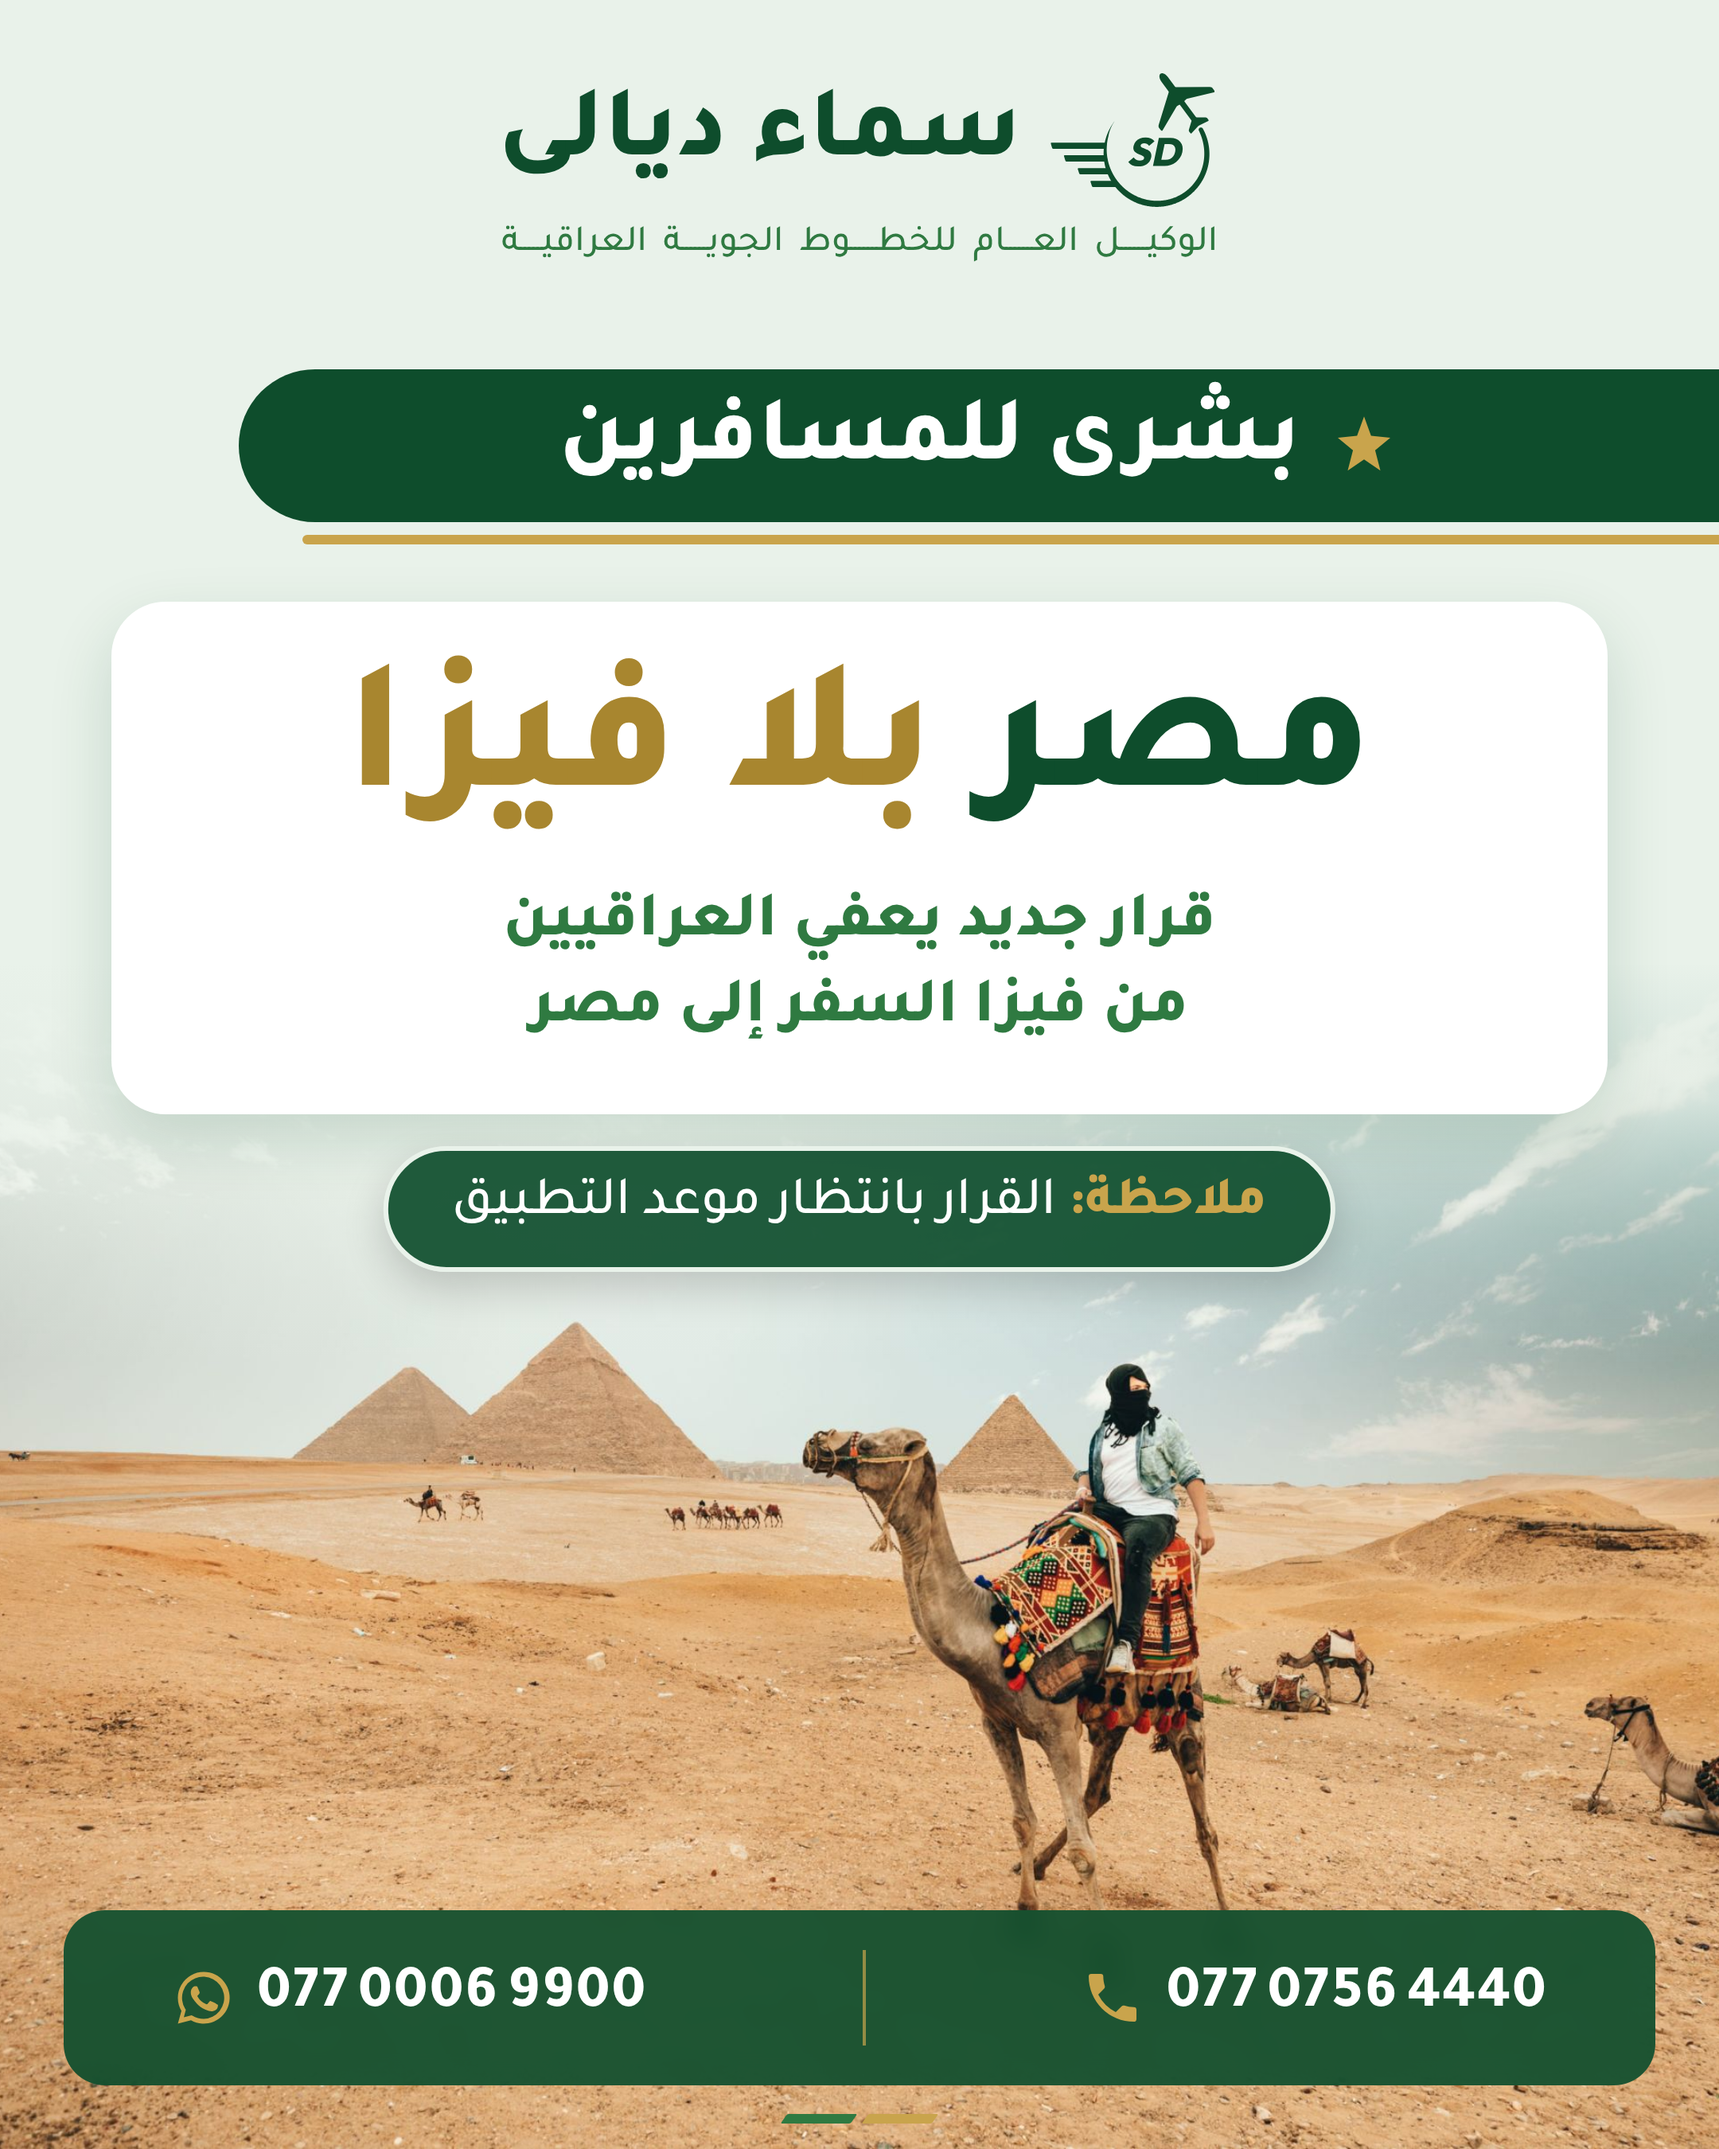
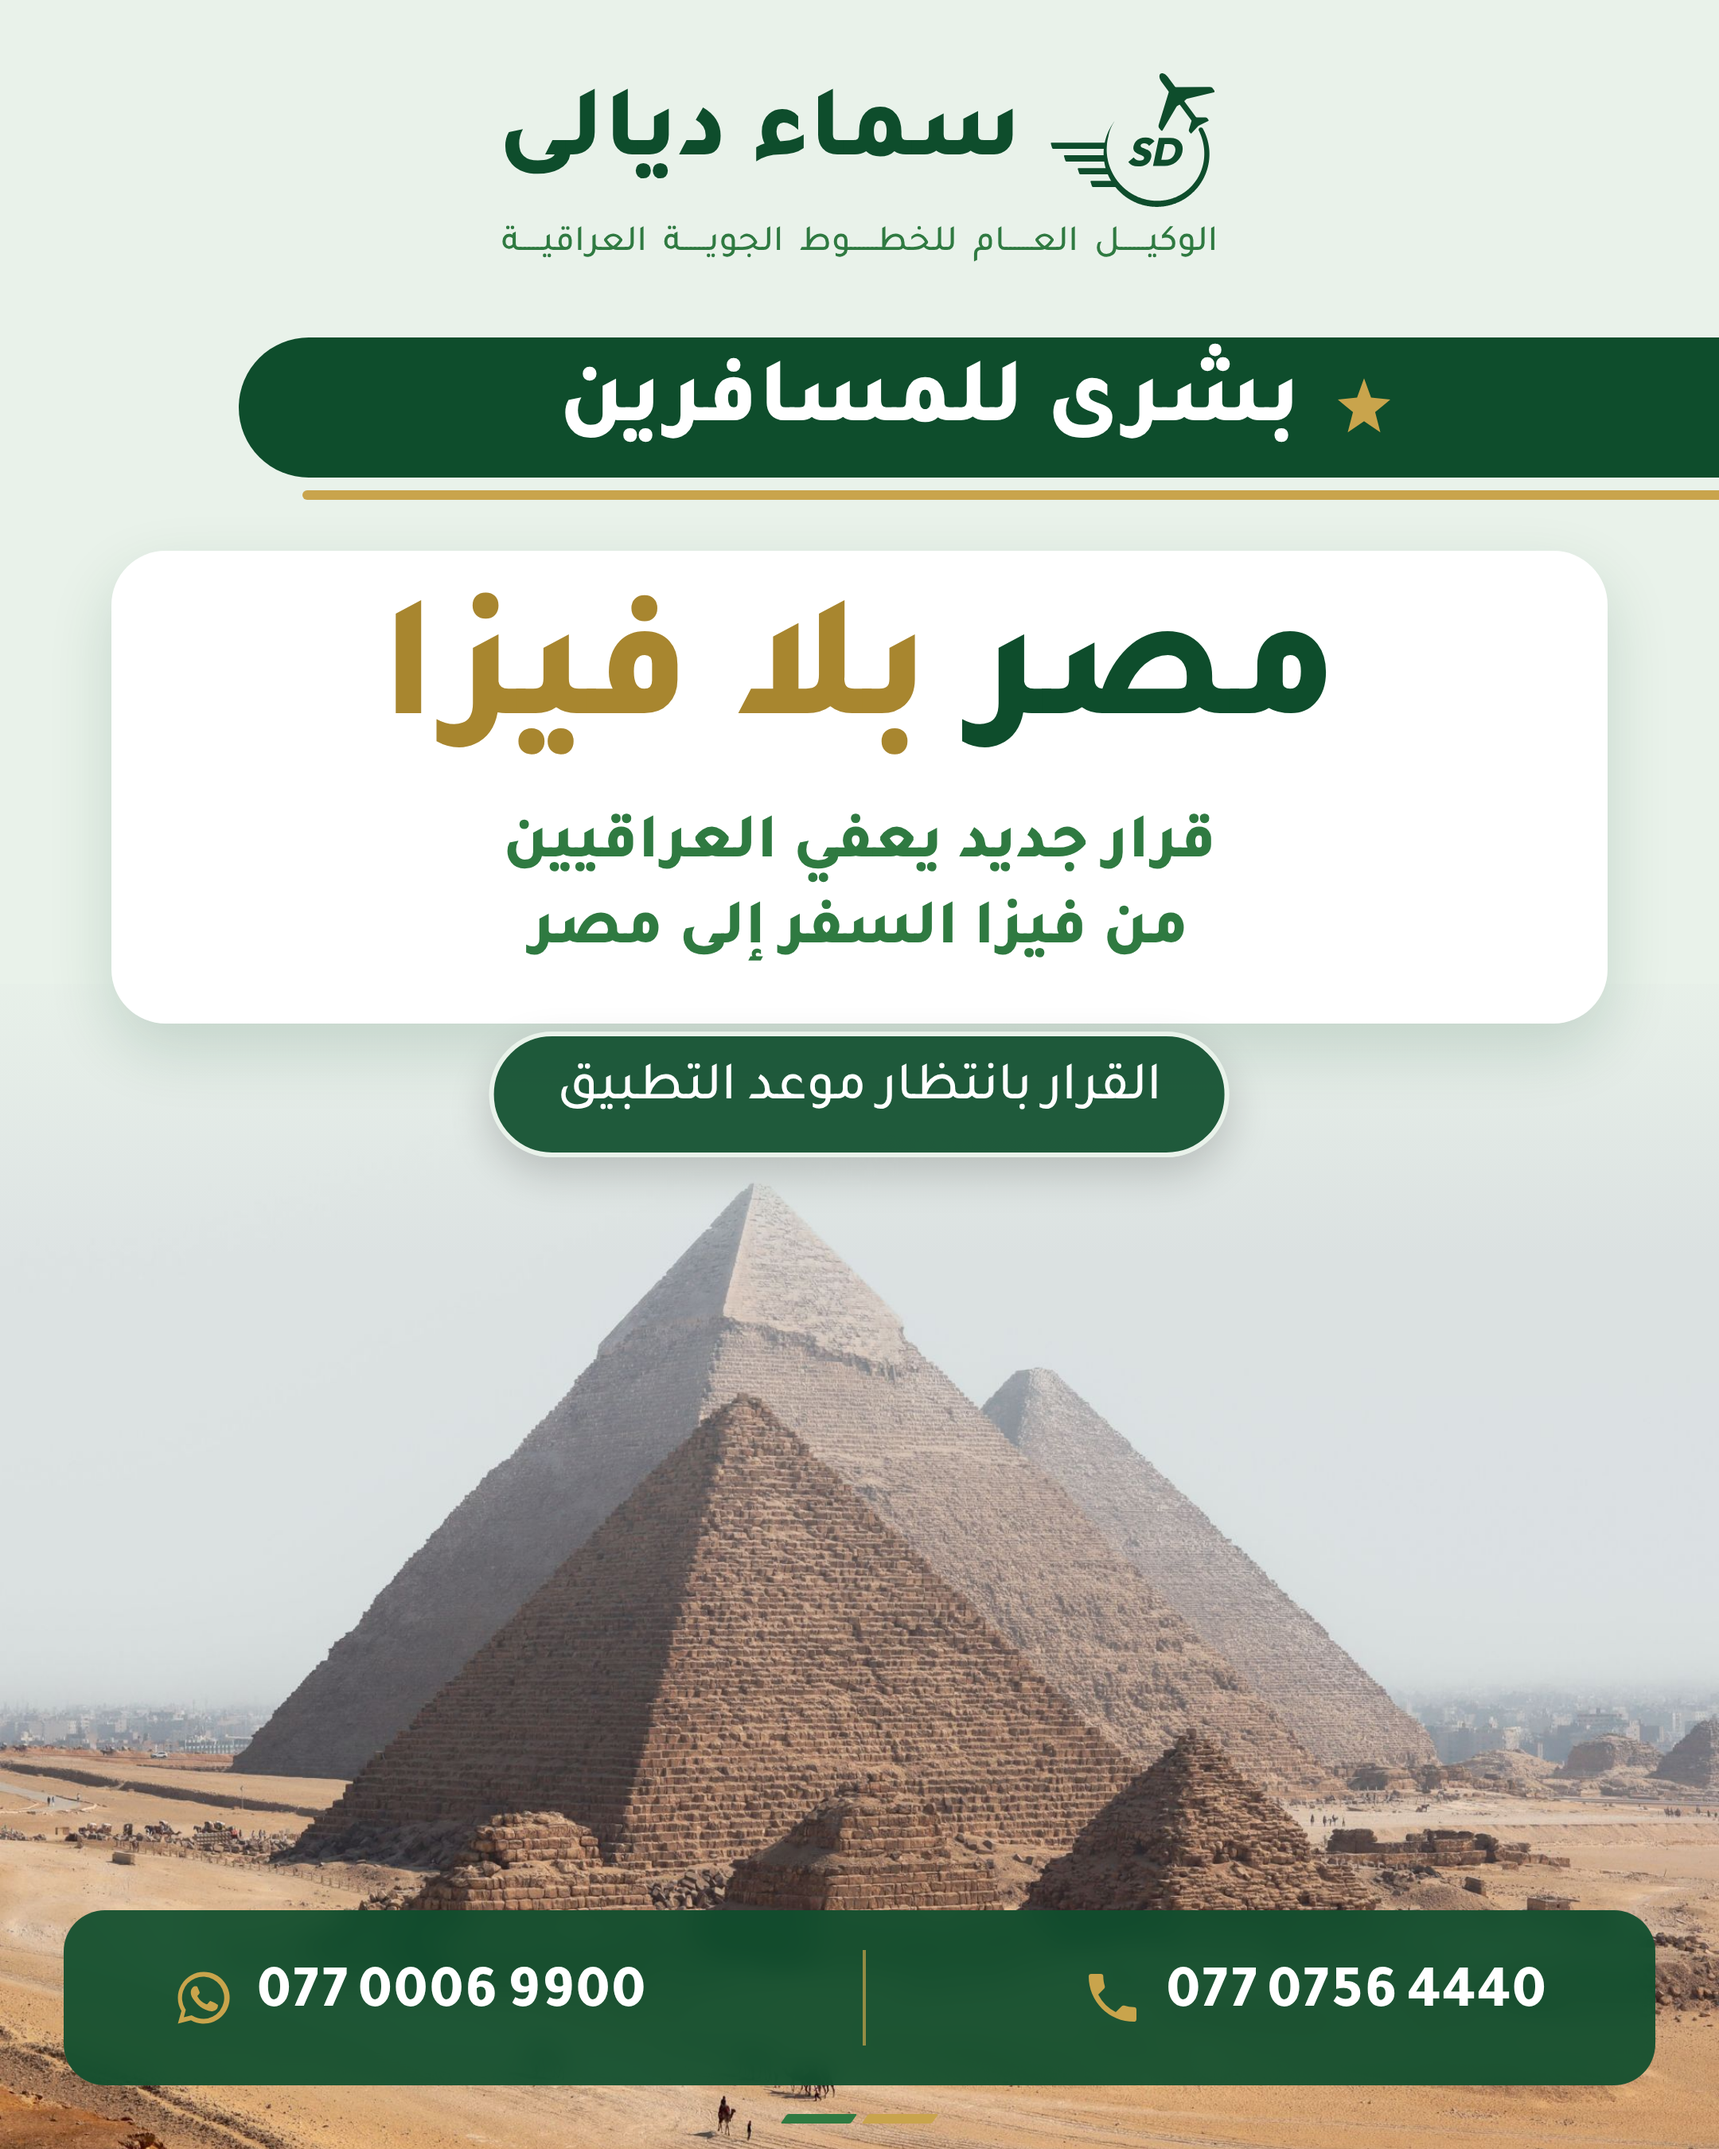
Egypt news post: Giza pyramids photo, no 'note' label
Claude-Session: https://claude.ai/code/session_01EprWPUJDuKvYHn821imCPv

diff --git a/09-التصاميم/مصر بلا فيزا/إعلان.html b/09-التصاميم/مصر بلا فيزا/إعلان.html
@@ -13,9 +13,9 @@
 *{margin:0;padding:0;box-sizing:border-box}
 html,body{width:1080px;height:1350px;overflow:hidden;background:#E9F2EA}
 .ad{position:relative;width:1080px;height:1350px;overflow:hidden;color:#0E4D2C}
-.photo{position:absolute;left:0;right:0;bottom:0;height:745px;background:url("../../08-الصور/وجهات/مصر - الأهرامات والجمل (الأصل).jpg") 58% 100%/auto 745px no-repeat}
-.fade{position:absolute;left:0;right:0;top:604px;height:250px;background:linear-gradient(180deg,#E9F2EA 0%,rgba(233,242,234,.85) 35%,rgba(233,242,234,0) 100%)}
-.top{position:absolute;inset:0 0 auto 0;height:606px;background:#E9F2EA}
+.photo{position:absolute;left:0;right:0;top:618px;height:800px;background:url("../../08-الصور/وجهات/مصر - أهرامات الجيزة (الأصل).jpg") 50% 0/1080px auto no-repeat}
+.fade{position:absolute;left:0;right:0;top:590px;height:200px;background:linear-gradient(180deg,#E9F2EA 0%,rgba(233,242,234,.6) 45%,rgba(233,242,234,0) 100%)}
+.top{position:absolute;inset:0 0 auto 0;height:600px;background:#E9F2EA}
   .brand{display:inline-flex;flex-direction:column;align-items:stretch}
   .lockup{display:flex;align-items:center;justify-content:center;gap:18px}
   .lockup img{height:84px;display:block}
@@ -27,15 +27,15 @@ html,body{width:1080px;height:1350px;overflow:hidden;background:#E9F2EA}
   .tag{margin-top:10px !important}
 .head{position:absolute;top:46px;left:0;right:0;display:flex;flex-direction:column;align-items:center;z-index:3}
 .tag{opacity:1;color:#2F7A41;margin-top:10px !important}
-.news{position:absolute;top:232px;right:0;left:150px;height:96px;background:var(--green);border-radius:48px 0 0 48px;display:flex;align-items:center;justify-content:center;gap:18px;color:#fff;
+.news{position:absolute;top:212px;right:0;left:150px;height:88px;background:var(--green);border-radius:44px 0 0 44px;display:flex;align-items:center;justify-content:center;gap:18px;color:#fff;
   font-family:Tajawal;font-weight:700;font-size:58px;z-index:3}
 .news svg{width:44px;height:44px}
 .news::after{content:"";position:absolute;left:0;right:0;bottom:-14px;height:6px;background:var(--gold);border-radius:3px 0 0 3px;margin-left:40px}
-.card{position:absolute;top:378px;left:70px;right:70px;background:#fff;border-radius:34px;padding:34px 30px 38px;text-align:center;box-shadow:0 16px 40px rgba(14,77,44,.16);z-index:3}
-.card h1{font-family:Tajawal;font-weight:700;font-size:118px;line-height:1.1;color:var(--green)}
+.card{position:absolute;top:346px;left:70px;right:70px;background:#fff;border-radius:34px;padding:26px 30px 30px;text-align:center;box-shadow:0 16px 40px rgba(14,77,44,.16);z-index:3}
+.card h1{font-family:Tajawal;font-weight:700;font-size:110px;line-height:1.1;color:var(--green)}
 .card h1 span{color:var(--dgold)}
 .card p{margin-top:12px;font-family:TajawalT;font-weight:700;font-size:40px;line-height:1.35;color:var(--mid)}
-.note{position:absolute;top:720px;left:50%;transform:translateX(-50%);white-space:nowrap;background:rgba(14,77,44,.92);color:#fff;border:3px solid #E9F2EA;border-radius:999px;
+.note{position:absolute;top:648px;left:50%;transform:translateX(-50%);white-space:nowrap;background:rgba(14,77,44,.92);color:#fff;border:3px solid #E9F2EA;border-radius:999px;
   padding:14px 40px 18px;font-family:TajawalT;font-weight:500;font-size:34px;z-index:3;box-shadow:0 10px 26px rgba(0,0,0,.18)}
 .note b{color:var(--gold);font-weight:700}
 .bar{position:absolute;left:40px;right:40px;bottom:40px;height:110px;border-radius:26px;background:rgba(14,77,44,.92);display:flex;align-items:center;justify-content:space-around;color:#fff;z-index:3;
@@ -52,7 +52,7 @@ html,body{width:1080px;height:1350px;overflow:hidden;background:#E9F2EA}
 <div class="tag" id="tag">الوكيــــــل العــــــام للخطــــــوط الجويــــــة العراقيـــــة</div></div></div>
 <div class="news"><svg viewBox="0 0 24 24" fill="#C9A44C"><path d="M12 2l2.4 6.6L21 9.3l-5.2 4.3 1.8 6.9L12 16.7l-5.6 3.8 1.8-6.9L3 9.3l6.6-.7z"/></svg>بشرى للمسافرين</div>
 <div class="card"><h1>مصر <span>بلا فيزا</span></h1><p>قرار جديد يعفي العراقيين<br>من فيزا السفر إلى مصر</p></div>
-<div class="note"><b>ملاحظة:</b> القرار بانتظار موعد التطبيق</div>
+<div class="note">القرار بانتظار موعد التطبيق</div>
 <div class="bar"><div class="it"><svg viewBox="0 0 24 24" fill="currentColor"><path d="M6.6 10.8a15.1 15.1 0 0 0 6.6 6.6l2.2-2.2a1 1 0 0 1 1-.25 11.4 11.4 0 0 0 3.6.57 1 1 0 0 1 1 1V20a1 1 0 0 1-1 1A17 17 0 0 1 3 4a1 1 0 0 1 1-1h3.5a1 1 0 0 1 1 1c0 1.25.2 2.45.57 3.57a1 1 0 0 1-.25 1z"/></svg><span>077 0756 4440</span></div><div class="sep"></div><div class="it"><svg viewBox="0 0 32 32" fill="currentColor"><path d="M16 3a13 13 0 0 0-11.2 19.6L3 29l6.6-1.7A13 13 0 1 0 16 3zm0 23.6c-2 0-4-.5-5.7-1.6l-.4-.2-3.9 1 1-3.8-.3-.4A10.6 10.6 0 1 1 16 26.6zm5.8-7.9c-.3-.2-1.9-.9-2.2-1-.3-.1-.5-.2-.7.2l-1 1.2c-.2.2-.4.2-.7.1a8.7 8.7 0 0 1-4.3-3.8c-.3-.6.3-.5 1-1.7.1-.2 0-.4 0-.6l-1-2.4c-.3-.6-.5-.5-.7-.5h-.6c-.2 0-.6.1-.9.4-.3.3-1.2 1.1-1.2 2.8s1.2 3.2 1.4 3.5c.2.2 2.4 3.6 5.8 5 2.1.9 3 1 4 .8.7-.1 1.9-.8 2.2-1.6.3-.8.3-1.4.2-1.6-.1-.1-.3-.2-.6-.3z"/></svg><span>077 0006 9900</span></div></div>
 <div class="stripes"><i></i><i></i></div>
 </div>

diff --git a/CLAUDE.md b/CLAUDE.md
@@ -110,7 +110,7 @@
 - سلسلة "خمّن الوجهة" (من 23 تشرين الثاني 2026): بطاقة صعود BGW ← ؟؟؟ بأرقام قلّابة (بلا خانات المسافر والمقعد والجواب، والطائرة على المسار تتجه من بغداد إلى الوجهة)، بالتصميم الفاتح قليل الخضرة، وثلاث بطاقات تلميحات بأيقونات ذهبية، و"اكتب جوابك بالتعليقات"، والجواب في ستوري اليوم التالي مع عرض الوجهة إن وُجد. الحلقة الأولى إسطنبول (جسر يربط قارتين، ترام أحمر، شاي بكوب زجاج): `09-التصاميم/خمن الوجهة - 1/`. لا يُكتب اسم الوجهة في النص ولا الهاشتاغات.
 - "رأس السنة وين؟ إسطنبول لو بيروت" (23 تشرين الثاني 2026): `09-التصاميم/إسطنبول لو بيروت/`، صورتان (ترام الاستقلال ليلاً، وصخرة الروشة الطبيعية) بفاصل مائل ذهبي وأخضر ودائرة "لو"، كل صورة بمقاس نصفها، والتصويت بالتفاعل ❤ إسطنبول و😮 بيروت (وبالتعليقات في إنستغرام)، مع أقل سعر لكل وجهة. سعر بيروت في الجدول صار 700,000 د.ع (4 أيام / 3 ليالٍ، فندق الإليزيه) بدل 670,000.
 
-- خبر "مصر بلا فيزا" (24 تشرين الثاني 2026، بصياغة جديدة لمنشور منافس): `09-التصاميم/مصر بلا فيزا/`، بخط تجوال، ترويسة خضراء على أخضر فاتح، شريط "بشرى للمسافرين"، بطاقة بيضاء "مصر بلا فيزا" و"قرار جديد يعفي العراقيين من فيزا السفر إلى مصر"، وملاحظة "القرار بانتظار موعد التطبيق"، وصورة الأهرامات والجمل (`08-الصور/وجهات/مصر - الأهرامات والجمل (الأصل).jpg`) في النصف الأسفل، وشريط أخضر بالرقمين.
+- خبر "مصر بلا فيزا" (24 تشرين الثاني 2026، بصياغة جديدة لمنشور منافس): `09-التصاميم/مصر بلا فيزا/`، بخط تجوال، ترويسة خضراء على أخضر فاتح، شريط "بشرى للمسافرين"، بطاقة بيضاء "مصر بلا فيزا" و"قرار جديد يعفي العراقيين من فيزا السفر إلى مصر"، وشريط "القرار بانتظار موعد التطبيق" بلا كلمة "ملاحظة"، وصورة أهرامات الجيزة (`08-الصور/وجهات/مصر - أهرامات الجيزة (الأصل).jpg`) في النصف الأسفل، وقمة الهرم تحت الشريط مباشرة، وشريط أخضر بالرقمين.
 
 ## قواعد ثابتة لكل التصاميم
 - السعر كاملاً بصيغة "725,000 د.ع".
